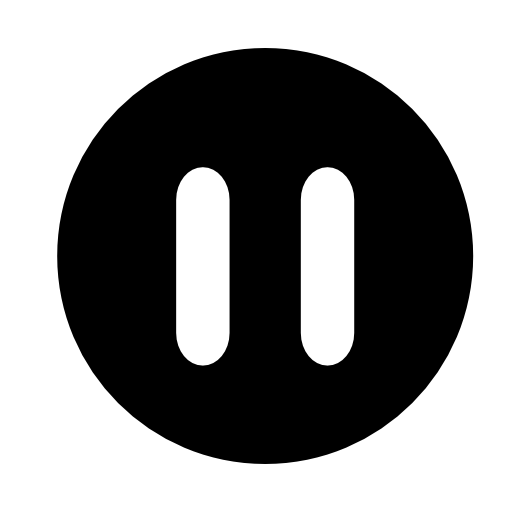
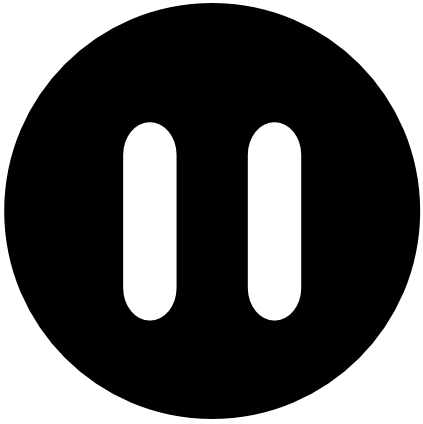
styles new play pause buttons, and changed color template to black and hotpink

diff --git a/DexSecondWebsite/dexstyle.css b/DexSecondWebsite/dexstyle.css
@@ -20,7 +20,7 @@ nav {
 nav p{
     background-color: #000000;
     font-family: arial, serif;
-    color: #ffffff;
+    color: hotpink;
     font-size: 24px;
     line-height: 60px;
     float: left;
@@ -47,7 +47,7 @@ nav ul li a{
 }
 
 nav ul li a:hover{
-    color: #fff;
+    color: hotpink;
     background-color: #000000;
 }
 
@@ -104,7 +104,7 @@ nav ul li ul li:hover {
     width: auto;
     margin-top: -155px;
     padding: 16px;
-    color: white;
+    color: hotpink;
     font-weight: bold;
     font-size: 20px;
     transition: 0.6s ease;
@@ -173,16 +173,23 @@ section p {
 }
 
 #pauseButton {
-    width: 40px;
-    height: 40px;
+    width: 32px;
+    height: 32px;
     position: absolute;
     z-index: 5;
-    margin: 6px 0 0 35px;
+    margin: 10px 0 0 42px;
     cursor: pointer;
     background-image: url("images/pauseButton.png");
-    //background-repeat: no-repeat;
+    /*background-repeat: no-repeat;*/
     background-size: cover;
 }
+
+#pauseButton:hover, #playButton:hover {
+    background-color: hotpink;
+    border-radius: 50%;
+    box-shadow: 0 0 4px 4px hotpink;
+}
+
 
 .galleryContainer #dotsContainer {
     width: 100%;
@@ -206,7 +213,7 @@ section p {
 }
 
 .galleryContainer #dotsContainer .dots:hover, .galleryContainer #dotsContainer .dots.active  {
-    background-color: white;
+    background-color: hotpink;
 }
 
 .galleryContainer #dotsContainer .dots:first-child {

diff --git a/DexSecondWebsite/script.js b/DexSecondWebsite/script.js
@@ -28,7 +28,7 @@ function autoSlideShow() {
             autoIndex = images.length;
         }
         images[autoIndex - 1].style.display = "block";
-        dotsList[autoIndex - 1].style.backgroundColor = "white";
+        dotsList[autoIndex - 1].style.backgroundColor = "hotpink";
 
         timeout = setTimeout(autoSlideShow, 2000);
         currentSlide = autoIndex;
@@ -51,7 +51,7 @@ function manualSlideShow(n) {
         dotsList[j].style.backgroundColor = "grey";
     }
     images[slideIndex - 1].style.display = "block";
-    dotsList[slideIndex -1].style.backgroundColor = "white";
+    dotsList[slideIndex -1].style.backgroundColor = "hotpink";
 }
 
 function plusSlides(n) {
